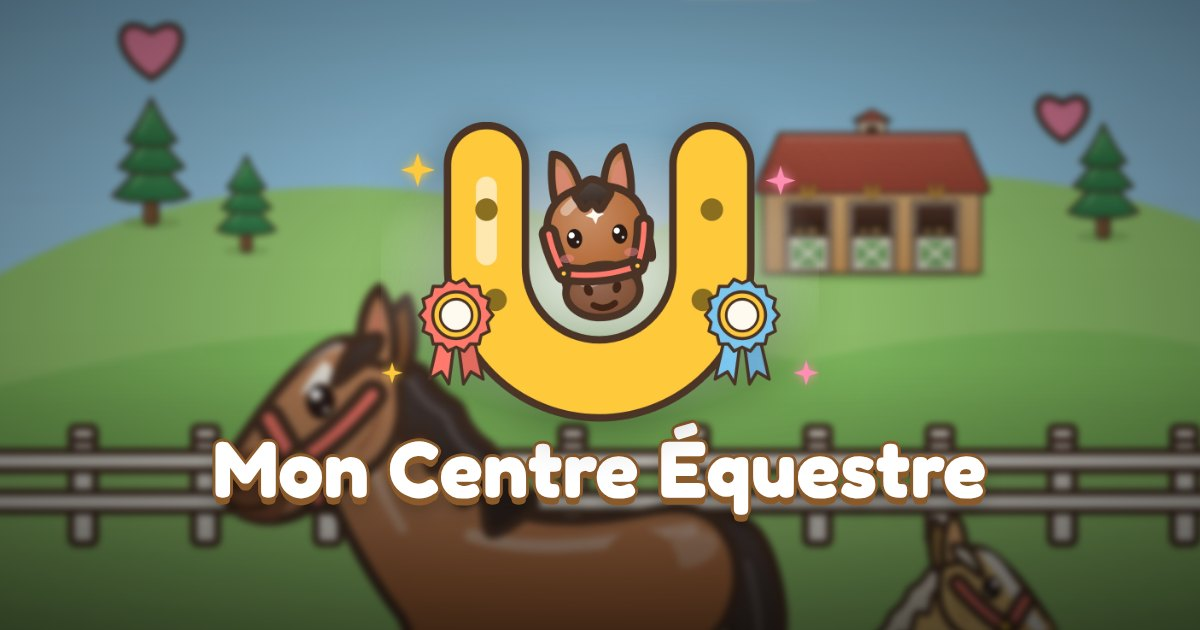
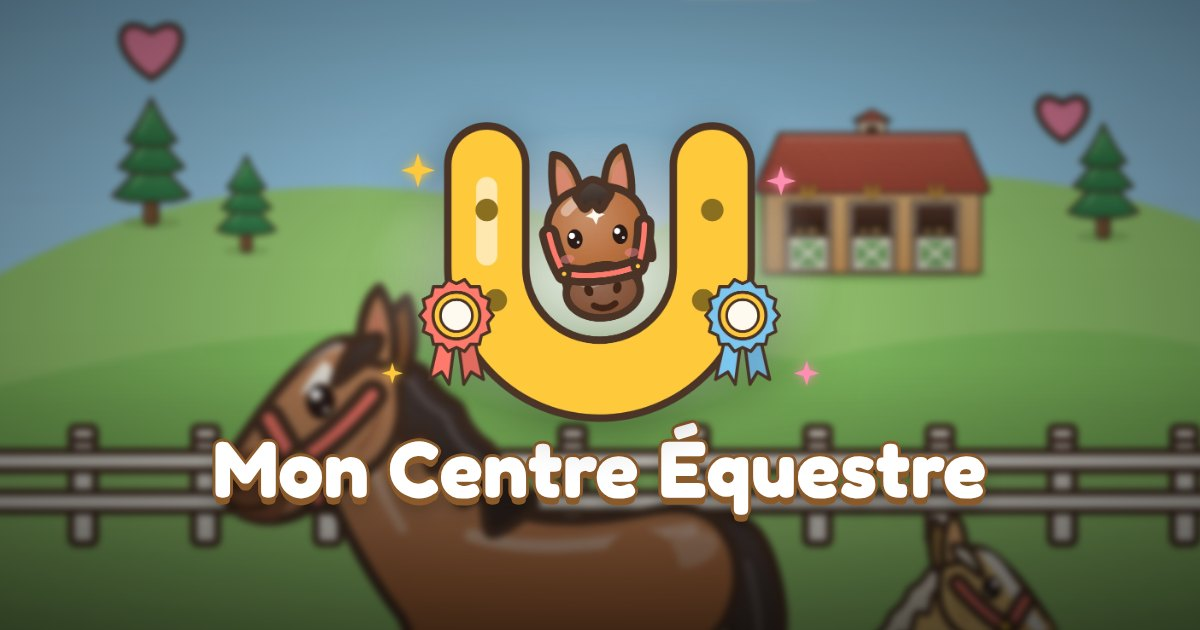
Engine 2026-10-20.1: askPlayerName option, share card glow fix, README play link check, engine problems reported directly (from ludea-ai/game-engine#21)
Claude-Session: https://claude.ai/code/session_01AuPULQEV2kyQe5SsTqgkcW

diff --git a/index.html b/index.html
@@ -11,12 +11,12 @@
   <meta name="apple-mobile-web-app-status-bar-style" content="black-translucent" />
   <meta name="apple-mobile-web-app-title" content="Mon Centre" />
   <title>Mon Centre Équestre</title>
-  <link rel="manifest" href="manifest.webmanifest?v=v23" />
-  <link rel="icon" type="image/png" href="assets/favicon.png?v=v23" />
-  <link rel="apple-touch-icon" href="assets/apple-touch-icon.png?v=v23" />
+  <link rel="manifest" href="manifest.webmanifest?v=v24" />
+  <link rel="icon" type="image/png" href="assets/favicon.png?v=v24" />
+  <link rel="apple-touch-icon" href="assets/apple-touch-icon.png?v=v24" />
   <link rel="preload" href="vendor/fonts/fredoka-latin.woff2" as="font" type="font/woff2" crossorigin />
-  <link rel="stylesheet" href="engine.css?v=v23" />
-  <link rel="stylesheet" href="style.css?v=v23" />
+  <link rel="stylesheet" href="engine.css?v=v24" />
+  <link rel="stylesheet" href="style.css?v=v24" />
   <!-- ludea:share (generated by share-preview.cjs — do not edit by hand) -->
   <meta name="description" content="Soigne, brosse et monte tes chevaux !" />
   <meta property="og:type" content="website" />
@@ -24,7 +24,7 @@
   <meta property="og:title" content="Ludea – Mon Centre Équestre" />
   <meta property="og:description" content="Soigne, brosse et monte tes chevaux !" />
   <meta property="og:url" content="https://ludea.ai/my-little-stable/" />
-  <meta property="og:image" content="https://ludea.ai/my-little-stable/assets/share.jpg?v=8136f2f740" />
+  <meta property="og:image" content="https://ludea.ai/my-little-stable/assets/share.jpg?v=05c2e06871" />
   <meta property="og:image:width" content="1200" />
   <meta property="og:image:height" content="630" />
   <meta property="og:image:alt" content="Mon Centre Équestre" />
@@ -33,7 +33,7 @@
   <meta name="twitter:card" content="summary_large_image" />
   <meta name="twitter:title" content="Ludea – Mon Centre Équestre" />
   <meta name="twitter:description" content="Soigne, brosse et monte tes chevaux !" />
-  <meta name="twitter:image" content="https://ludea.ai/my-little-stable/assets/share.jpg?v=8136f2f740" />
+  <meta name="twitter:image" content="https://ludea.ai/my-little-stable/assets/share.jpg?v=05c2e06871" />
   <!-- /ludea:share -->
 </head>
 <body>
@@ -121,9 +121,9 @@
   <!-- Night veil ("rest" transition), fullscreen -->
   <div id="night-veil"></div>
 
-  <script src="vendor/phaser.min.js?v=v23"></script>
-  <script src="game.config.js?v=v23"></script>
-  <script src="game.i18n.js?v=v23"></script>
-  <script src="engine.js?v=v23"></script>
+  <script src="vendor/phaser.min.js?v=v24"></script>
+  <script src="game.config.js?v=v24"></script>
+  <script src="game.i18n.js?v=v24"></script>
+  <script src="engine.js?v=v24"></script>
 </body>
 </html>

diff --git a/engine.js b/engine.js
@@ -329,6 +329,7 @@ function variantId(c) {
 }
 function variantDef(id) { return VARIANTS.find((v) => v.id === id) || VARIANTS[0]; }
 function charDef(id) { return CHARACTERS.find((p) => p.id === id) || CHARACTERS[0]; }
+const ASK_NAME = META.askPlayerName !== false; // false: the player's name is the chosen character's name
 
 /* ===================== Creatures ===================== */
 
@@ -717,6 +718,7 @@ function continueGame() {
   state = s;
   if (!state.player) state.player = { avatar: CHARACTERS[0].id };
   if (!charDef(state.player.avatar) || !CHARACTERS.some((p) => p.id === state.player.avatar)) state.player.avatar = CHARACTERS[0].id;
+  if (!ASK_NAME) state.player.name = charDef(state.player.avatar).name; // a name typed before the option was set is not kept
   if (!state.resources) state.resources = Object.assign({}, ECON.startResources || {});
   if (!state.decors) state.decors = [];
   state.decors = state.decors.filter((d) => d && DECOR.some((x) => x.id === d.id) && typeof d.x === "number");
@@ -936,9 +938,10 @@ function openCreate(player, onValidate) {
     b.innerHTML = iconHTML("arrow"); b.classList.toggle("hidden", !many);
     b.onclick = () => step(i ? 1 : -1);
   });
-  cont.innerHTML = `<div class="avatar-row" id="grp-avatar"></div>
+  // meta.askPlayerName:false — the player IS a named hero: no name field, the hero keeps its own name.
+  cont.innerHTML = `<div class="avatar-row" id="grp-avatar"></div>` + (!ASK_NAME ? "" : `
     <label class="field-label" for="create-name">${esc(META.namePromptYou || L("Your name"))}</label>
-    <input id="create-name" type="text" maxlength="14" placeholder="${esc(META.namePromptYou || L("Your name"))}" value="${esc(pendingPlayer.name || "")}" />`;
+    <input id="create-name" type="text" maxlength="14" placeholder="${esc(META.namePromptYou || L("Your name"))}" value="${esc(pendingPlayer.name || "")}" />`);
   const ga = $("grp-avatar");
   if (!many) ga.classList.add("hidden");
   CHARACTERS.forEach((p) => {
@@ -950,8 +953,8 @@ function openCreate(player, onValidate) {
   });
   draw();
   $("btn-create-ok").onclick = () => {
-    const n = $("create-name").value.trim();
-    pendingPlayer.name = n || pendingPlayer.name || charDef(pendingPlayer.avatar).name;
+    const n = ASK_NAME ? $("create-name").value.trim() : "";
+    pendingPlayer.name = ASK_NAME ? (n || pendingPlayer.name || charDef(pendingPlayer.avatar).name) : charDef(pendingPlayer.avatar).name;
     onValidate();
     if (state) { $("screen-create").classList.add("hidden"); $("screen-game").classList.remove("hidden"); themeColor(TINT_PLAY); buildHud(); refreshHud(); }
   };

diff --git a/game.config.js b/game.config.js
@@ -49,7 +49,7 @@ window.GAME = {
       };
     } },
     audience: { minAge: 9, notes: "kids 9–10, girls AND boys, cute but NOT manga, horses & riding, no scary content, light reading" },
-    assetVersion: "v23",
+    assetVersion: "v24",
     theme: { home: "#bfe6f5", play: "#7cbf5a", closeup: "#e9f6ff" },
 
     showCoins: true,

diff --git a/.claude/skills/report-upstream/SKILL.md b/.claude/skills/report-upstream/SKILL.md
@@ -1,6 +1,6 @@
 ---
 name: report-upstream
-description: Report back to the Ludea engine, AUTOMATICALLY and without asking the creator anything technical, what this game's work taught — bugs hit in the engine / skills / tooling / docs / template, and engine improvements ALREADY implemented in this game (the engine-layer drift, with its patch). Creates de-duplicated issues on ludea-ai/game-engine (or gives a one-click prefilled link when this session can't write there). Run by capitalize-learnings after every feature/bugfix, at the end of new-game, and before any sync-engine that would overwrite local engine changes. Triggers: "report this to the engine", "send the improvements back to Ludea", "tell the engine team", after capitalize-learnings.
+description: Report back to the Ludea engine, AUTOMATICALLY and without asking the creator anything technical, what this game's work taught — bugs hit in the engine / skills / tooling / docs / template, and engine improvements ALREADY implemented in this game (the engine-layer drift, with its patch). Creates de-duplicated issues on ludea-ai/game-engine (or gives a one-click prefilled link when this session can't write there). Run by capitalize-learnings after every feature/bugfix, at the end of new-game, before any sync-engine that would overwrite local engine changes, and by update / release-deploy / visual-review / test-debug as soon as they notice an engine-layer defect. Triggers: "report this to the engine", "send the improvements back to Ludea", "tell the engine team", after capitalize-learnings.
 ---
 
 # report-upstream (game → Ludea engine, automatic)
@@ -82,13 +82,16 @@ _Generated by [Claude Code](https://claude.ai/code)_
 creator's private messages verbatim, whole transcripts. Describe, don't paste.
 
 ## 4. Send it (first route that works)
-**Expect no access**: a session opened on a creator's game usually has GitHub access to that repo
-only — the MCP tools answer "repository not configured for this session" for `ludea-ai/*` and `gh`
-is often not logged in. That's normal. Before the de-duplication step (it needs the same access),
-ask the creator ONE plain question, in their language, and say it will be public:
+**Try direct access first** (game-engine#18): when the `add_repo` tool exists, call it for
+`ludea-ai/game-engine` (access `push` — issues only need any GitHub account) BEFORE asking anything,
+then ToolSearch "github issue" and use route 1. It usually works on the first try; never stop at a
+link while it does. Only when `add_repo` is missing or refused, read the game's CLAUDE.md §10 for a
+line `Upstream reports: direct` or `Upstream reports: link` (the creator's earlier answer) and follow
+it; with no such line, ask ONE plain question, in the creator's language, saying it will be public:
 « Je peux envoyer ça à Ludea moi-même (il me faut l'accès au dépôt Ludea) ou te donner un lien
-déjà rempli. Que préfères-tu ? » — *myself* → `add_repo` `ludea-ai/game-engine` (when the tool
-exists) then route 1; *link* → route 3 (de-duplicate by reading the public issues list).
+déjà rempli. Que préfères-tu ? » — then write their answer in CLAUDE.md §10 (`Upstream reports:
+direct` / `link`) so it is asked at most once per game. *Direct* → route 1 or 2; *link* → route 3
+(de-duplicate by reading the public issues list).
 Repos of the Ludea organisation (nebula, game-engine, Ludea's games) have access: no question.
 1. **GitHub MCP** `issue_write` (method create) on `ludea-ai/game-engine` (if the tool is not
    loaded, ToolSearch "github issue"). Public repos accept issues from any GitHub account.
@@ -117,5 +120,7 @@ Keep the local change: the game keeps working; the next engine sync brings it ba
   game's own repo is normal.
 
 ## Chaining
-**capitalize-learnings** → **report-upstream** → release-deploy. **sync-engine** refuses to
+**capitalize-learnings** → **report-upstream** → release-deploy. Also run directly by **update**,
+**release-deploy**, **visual-review** and **test-debug** as soon as they notice a defect in the engine
+layer or its tooling, even when their own task succeeded (game-engine#18). **sync-engine** refuses to
 overwrite unreported drift (run this first). Ideas from the creator go through **/idea**.

diff --git a/.claude/skills/update/SKILL.md b/.claude/skills/update/SKILL.md
@@ -42,14 +42,23 @@ Red → don't publish: fix if it is the game's config; if it is the engine, undo
 (`git checkout -- . && git clean -fd .claude`), **report-upstream** it as a bug, tell the creator
 plainly that the update waits for a fix.
 
-## 4. Put it online and tell
+## 4. Report what looked wrong in the engine
+**Engine problems noticed along the way are reported now** (game-engine#18): anything wrong in the
+engine layer or its tooling that you noticed during this task — a tool output that looks wrong, a
+file the sync left behind, a missing browser, a doc that misled you — goes to **report-upstream**
+before you tell the creator, even when the task itself succeeded. Never leave it at a mention or a
+link for the creator to click. (In `ludea-ai/*` you ARE upstream: fix it there instead.)
+Also make the README's « Play » link lead to where the game is served (a moved game kept a dead
+link, game-engine#19): `node .claude/skills/_shared/public-url.cjs --readme --fix`.
+
+## 5. Put it online and tell
 `node .claude/skills/_shared/bump-version.mjs`, commit (`Engine <version> from the Ludea template`),
 push, check the deploy is green (release-deploy). Then, in their language, 2–3 lines: what is new
 for their game, what was checked, what was NOT (real phone, sound), and the build number to look
 for at the bottom of the home screen. If the game is in the Ludea catalogue, a new
 **/publish** sends the updated version for review.
 
-## 5. Suggest what the game could now do (never switch it on alone)
+## 6. Suggest what the game could now do (never switch it on alone)
 Read the `### New — you can switch it on` lines of every version between the old and the new
 engine (`update-check.cjs --json` → `news`, or `_shared/CHANGELOG.md`). Keep the 1–3 that fit THIS
 game (look at its config: missions? a chase? riding? young players?) and offer them as ideas, in

diff --git a/.claude/skills/release-deploy/SKILL.md b/.claude/skills/release-deploy/SKILL.md
@@ -28,7 +28,12 @@ Cleanly publish a change to production.
    ```bash
    node .claude/skills/_shared/share-preview.cjs        # writes assets/share.jpg + the tags in index.html
    ```
-   Look at `assets/share.jpg` when it changed (title readable, logo not cut).
+   Look at `assets/share.jpg` when it changed (title readable, logo not cut, no box around it).
+   And the README's « Play » link must lead to where the game is served (a moved game kept a dead
+   link, game-engine#19) — it rewrites a wrong one, no network:
+   ```bash
+   node .claude/skills/_shared/public-url.cjs --readme --fix
+   ```
 3. **Verify** — Bash: `node --check engine.js && node --check game.config.js`, the
    separation audit, `art-check.cjs`, and the regression tour (`probes/tour.cjs`, errors
    must be empty). If art/UI changed, **visual-review** must have been done.
@@ -58,4 +63,9 @@ Cleanly publish a change to production.
   (or Settings → Pages → Source: GitHub Actions) — then re-run the failed run (`gh run rerun <id>`).
 
 ## Chaining
+**Engine problems noticed along the way are reported now** (game-engine#18): anything wrong in the
+engine layer or its tooling that you noticed during this task — a tool output that looks wrong, a
+file the sync left behind, a missing browser, a doc that misled you — goes to **report-upstream**
+before you tell the creator, even when the task itself succeeded. Never leave it at a mention or a
+link for the creator to click. (In `ludea-ai/*` you ARE upstream: fix it there instead.)
 Last step, after **test-debug** (the feature works) and, for a map change, after **map-verify**.

diff --git a/.claude/skills/_shared/CHANGELOG.md b/.claude/skills/_shared/CHANGELOG.md
@@ -8,6 +8,21 @@ their game). Two lists per version:
   **what it lets you do** — `config key` — the kind of game it suits.
 - `### Better — automatic`: fixes and improvements every game gets just by updating.
 
+## 2026-10-20.1
+### New — you can switch it on
+- **The player is a named hero, not themself**: the creation screen no longer asks « Your name »,
+  the hero keeps its own name (and changes with the chosen character) — `meta.askPlayerName: false`
+  — games whose hero is a mascot; in a children's game, no child types their real first name.
+### Better — automatic
+- **The link preview card** no longer shows a faint box around a logo with a soft glow; every
+  game's card is redrawn at its next release.
+- **The « Play » link of your README** is checked and corrected at every update and release, so it
+  always leads to where the game is really online (`public-url.cjs --readme --fix`); /publish warns
+  about a wrong one.
+- **Problems in the engine are sent to Ludea right away**: the update, release, visual and test steps
+  report any engine problem they notice, directly when the session can reach Ludea — no more link to
+  click.
+
 ## 2026-10-19.5
 ### Better — automatic
 - **Safer tools**: the tools that read your game's settings (translations, link preview, systems map,

diff --git a/ENGINE.md b/ENGINE.md
@@ -93,6 +93,10 @@ theme: { home, play, closeup },        // iOS theme-color per screen
 showCoins,                             // false → hide the coins HUD (no economy)
 showDay, showCreatureCount,            // false → hide the day / creature-count HUD chips (minimal HUD)
 showCapacity,                          // creature count: show "n/cap" vs bare "n". Default auto: "/cap" only when group size can change (breeding / spawn station / capacity shop)
+askPlayerName,                         // false → the player IS a named hero: no "Your name" field on the create screen; the
+                                       // player's name = the chosen character's `name` (follows a change of avatar; a name
+                                       // typed in an older save is replaced on load). Default true (asks). The place-name
+                                       // question on the home screen (namePrompt) is unchanged. Kids' games: no child types a first name.
 coinIcon, namePrompt:{label,placeholder}, startName, namePromptYou, avatarPrompt,
 createTitle, createOkLabel, startLabel, continueLabel, continueHint, helpTitle,
 ageUnit, and, nightMessage, restBlockedHint, neglectMessage, morningMessage,

diff --git a/CLAUDE.md b/CLAUDE.md
@@ -195,6 +195,10 @@ like a game made by a studio — not a prototype. Concretely:
   `--chip-bg` with two ROUND flags and a `--primary` knob that slides behind the active one; a tap
   switches. Owner iterations (don't redo them): text `FR · EN` = invisible; big 40 px flags = too
   big; tiny footer flags = no; flags merged into a split pill = "pas fan" → KEEP this knob toggle. Any new/changed text ships translated (`--check`).
+- **Engine problems found along the way are reported directly** (owner, 2026-10-19): in a game, any
+  defect noticed in the engine layer or its tooling (even while the task succeeds) → run
+  **report-upstream** yourself (`add_repo` ludea-ai/game-engine, then the issue). Never stop at a
+  prefilled link for the owner to click; don't ask when access works. In `ludea-ai/*`, fix it upstream.
 - **Requests are often dictated by voice**: names and creatures can be mis-transcribed (a "petit
   poulpe" — octopus — once arrived as "petit poulet" — chick — and a whole hero was drawn for nothing).
   Before drawing a hero, cross-check the request with the repo name / title, and when a word could be

diff --git a/.claude/skills/new-game/SKILL.md b/.claude/skills/new-game/SKILL.md
@@ -70,7 +70,10 @@ section by section:
 - `meta` (title, icons, logo, save key, theme colours, **audience**, UI strings incl.
   `meta.strings` for engine labels, language)
 - `render` (pixelArt:false, vignette, label pills, ambient particles), `audio` (music mood)
-- `world` + `camera`, `assets` (images/sheets), `player` + `characters`
+- `world` + `camera`, `assets` (images/sheets), `player` + `characters` — when the player IS a named
+  hero (a mascot with its own name, not the child themself), set `meta.askPlayerName: false`: the
+  create screen then doesn't ask « Your name » (no child types a real first name) and the hero keeps
+  its `characters[].name`
 - `creature` (label, needs, actions with effects/costs/rewards, variants, customize,
   ride/jump, celebrate, aging, breeding, names, start state) — omit systems not wanted
 - `zones`, `stations`, `economy` + `shop`, `decor`

diff --git a/.claude/skills/test-debug/SKILL.md b/.claude/skills/test-debug/SKILL.md
@@ -82,6 +82,11 @@ node .claude/skills/_shared/playtest.cjs --engine webkit --device "iPhone 13" --
 - If a functional choice is ambiguous, ask via **AskUserQuestion**.
 
 ## Chaining
+**Engine problems noticed along the way are reported now** (game-engine#18): anything wrong in the
+engine layer or its tooling that you noticed during this task — a tool output that looks wrong, a
+file the sync left behind, a missing browser, a doc that misled you — goes to **report-upstream**
+before you tell the creator, even when the task itself succeeded. Never leave it at a mention or a
+link for the creator to click. (In `ludea-ai/*` you ARE upstream: fix it there instead.)
 Before **map-verify** (map visuals) and **release-deploy** (publish).
 Called by the **feedback-session** orchestrator for each item.
 

diff --git a/.claude/skills/visual-review/SKILL.md b/.claude/skills/visual-review/SKILL.md
@@ -112,4 +112,9 @@ List what you checked and every defect found → fix → re-run 1–3. Never dec
 on art/UI without having looked at full-size crops and the tour screenshots.
 
 ## Chaining
+**Engine problems noticed along the way are reported now** (game-engine#18): anything wrong in the
+engine layer or its tooling that you noticed during this task — a tool output that looks wrong, a
+file the sync left behind, a missing browser, a doc that misled you — goes to **report-upstream**
+before you tell the creator, even when the task itself succeeded. Never leave it at a mention or a
+link for the creator to click. (In `ludea-ai/*` you ARE upstream: fix it there instead.)
 asset generation / UI change → **visual-review** (incl. the adversarial review) → test-debug → release-deploy.
